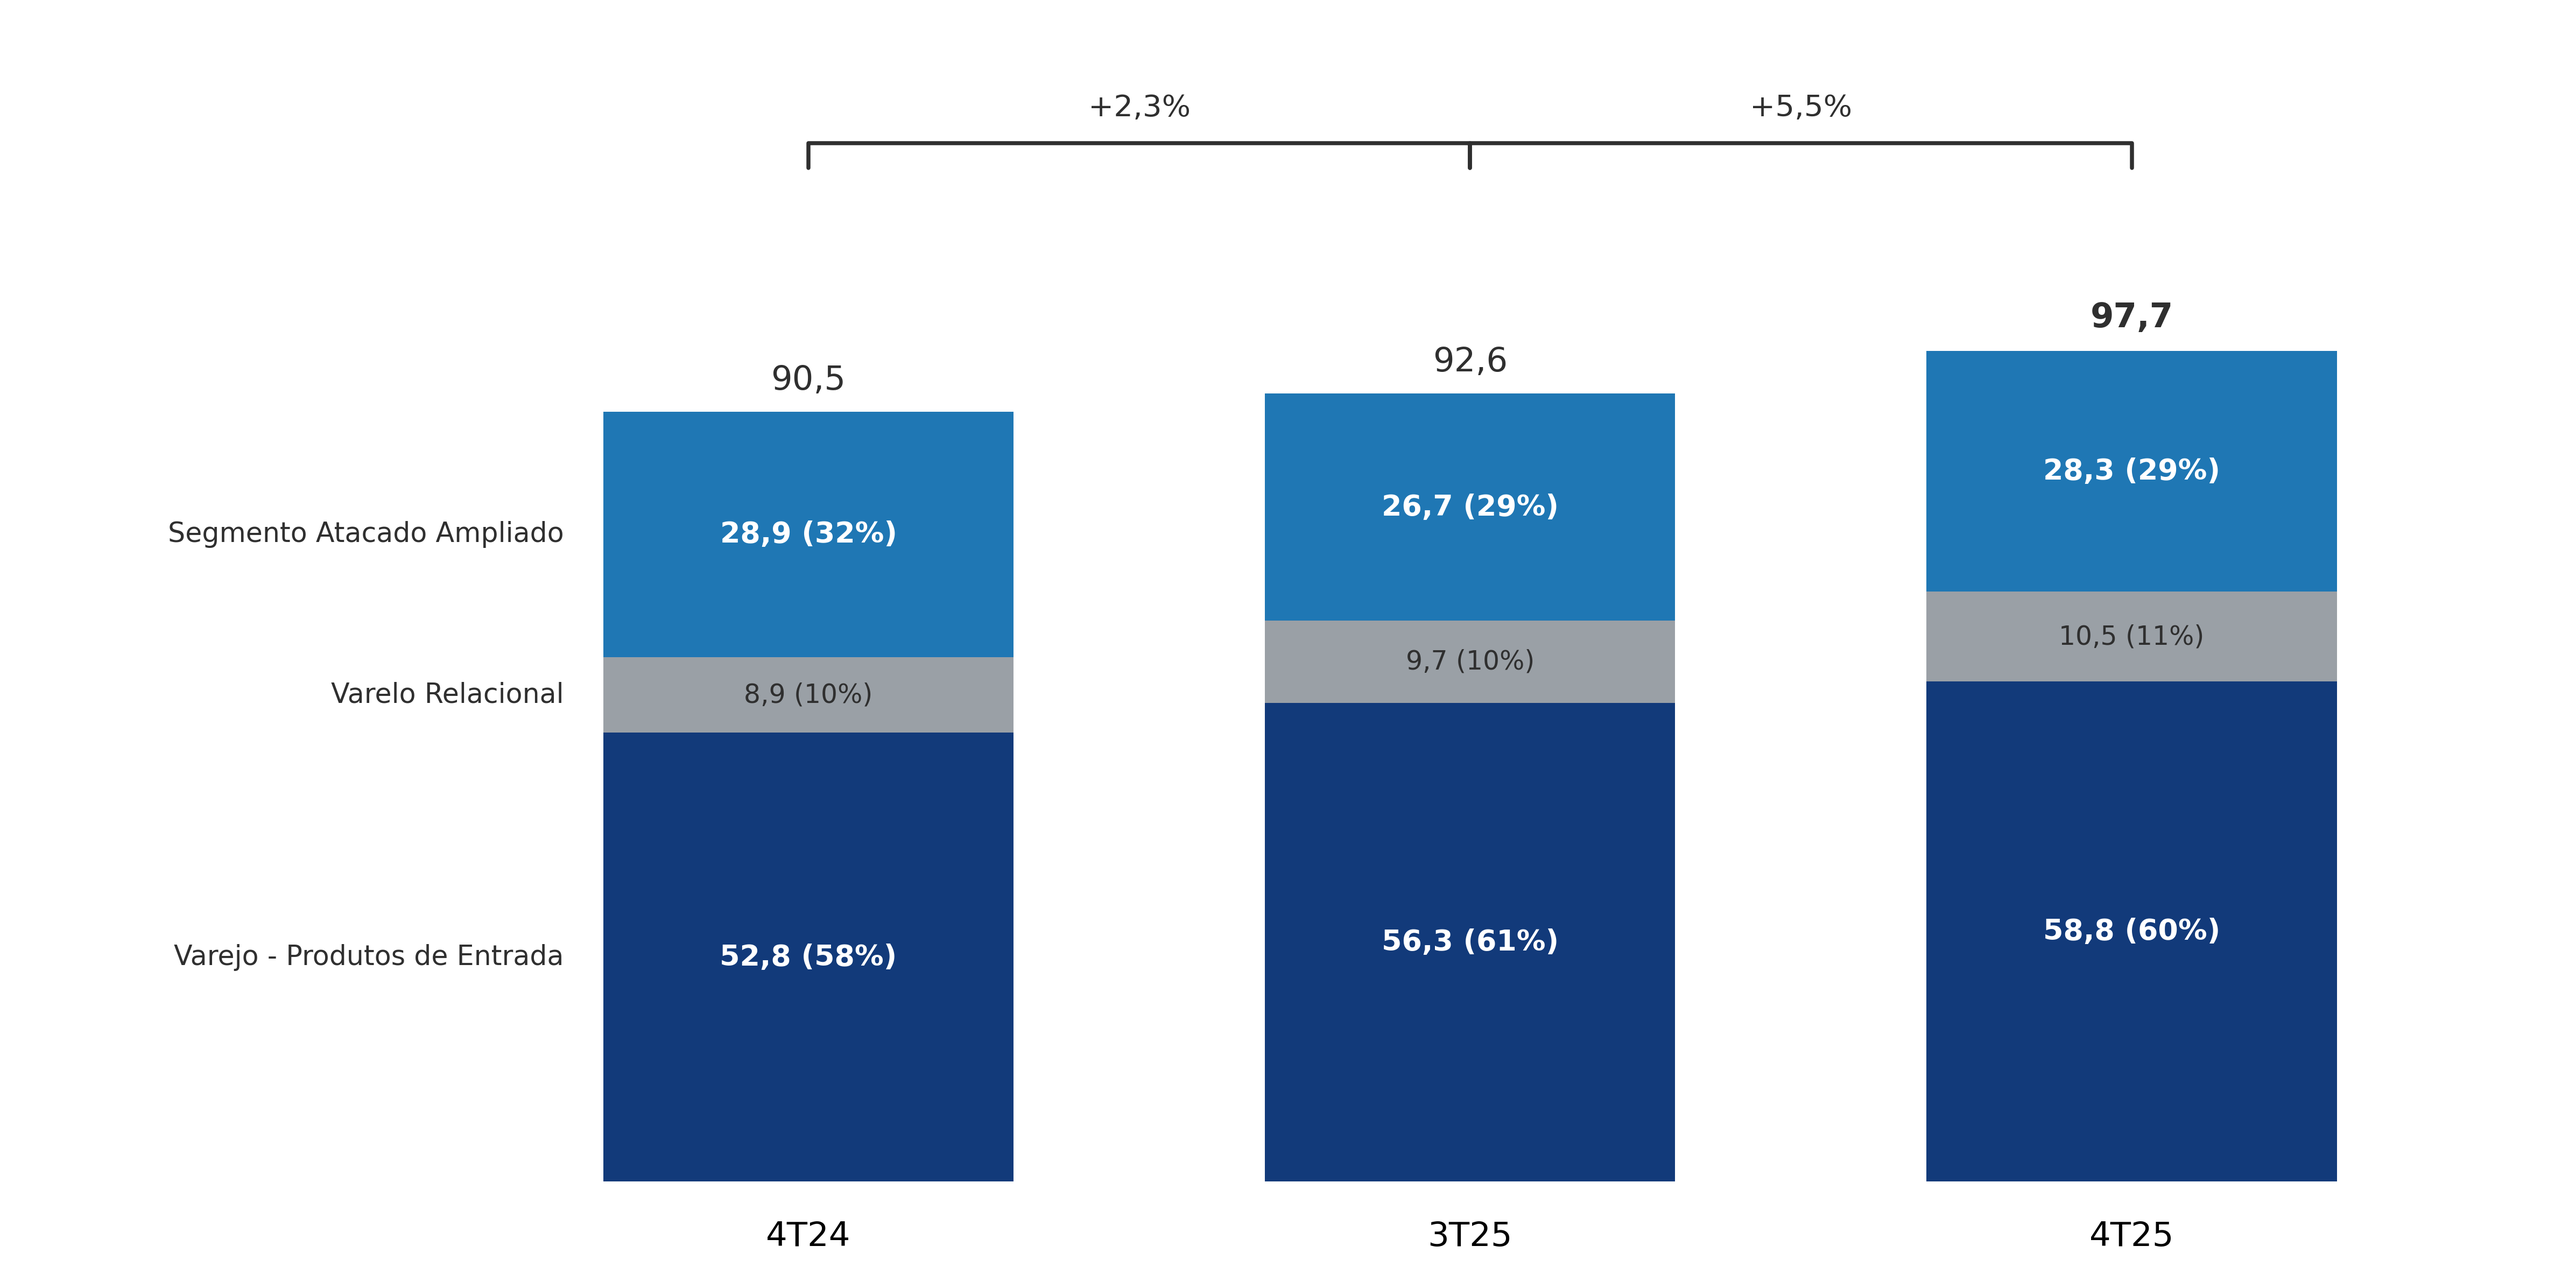
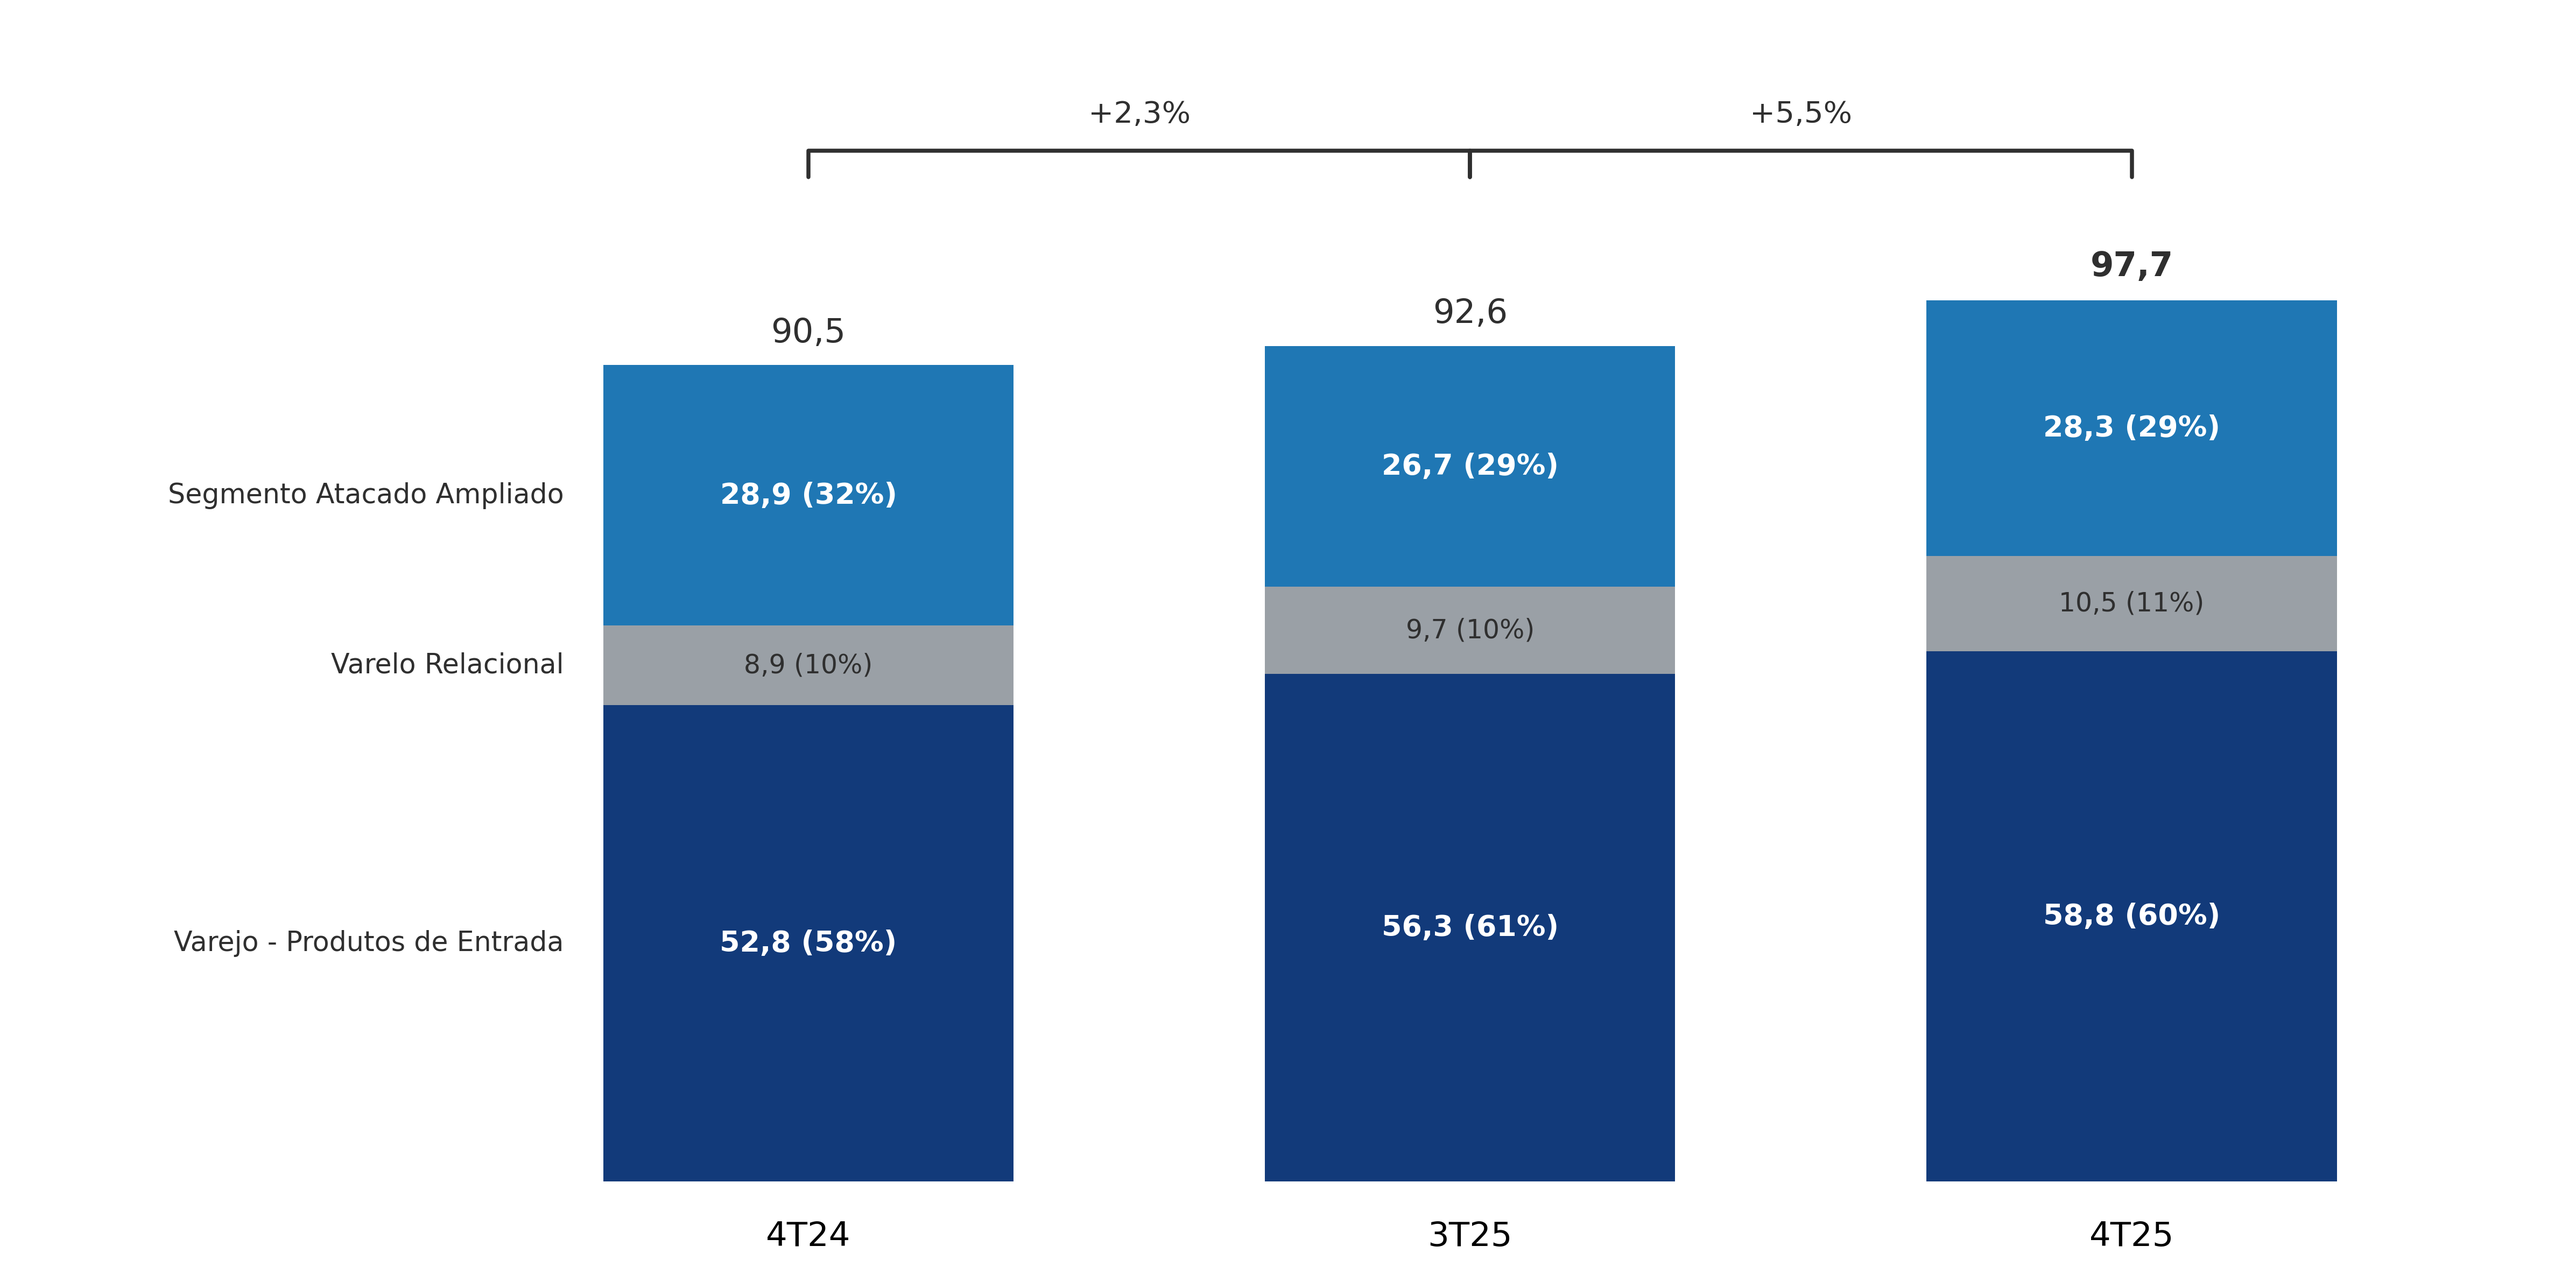
adjusted brackets on slide 12

diff --git a/tests/test_slide12_charts.py b/tests/test_slide12_charts.py
@@ -30,11 +30,21 @@ class TestSlide12Charts(unittest.TestCase):
 
         captured: dict[str, object] = {}
 
-        def _capture_plot(*, xlabels, series_names, values, output_path):
+        def _capture_plot(
+            *,
+            xlabels,
+            series_names,
+            values,
+            output_path,
+            bracket_top_gap_scale=0.20,
+            bracket_top_gap_min=1.4,
+        ):
             captured["xlabels"] = list(xlabels)
             captured["series_names"] = list(series_names)
             captured["values"] = values.tolist()
             captured["output_name"] = Path(output_path).name
+            captured["bracket_top_gap_scale"] = bracket_top_gap_scale
+            captured["bracket_top_gap_min"] = bracket_top_gap_min
 
         with tempfile.TemporaryDirectory() as td:
             xlsx_path = Path(td) / "test.xlsx"
@@ -59,6 +69,8 @@ class TestSlide12Charts(unittest.TestCase):
                 [0.012, 0.022, 0.032],
             ],
         )
+        self.assertEqual(captured["bracket_top_gap_scale"], 0.12)
+        self.assertEqual(captured["bracket_top_gap_min"], 0.9)
 
 
 if __name__ == "__main__":

diff --git a/utils/slide12_charts.py b/utils/slide12_charts.py
@@ -47,6 +47,8 @@ def _plot_slide12_stacked(
     series_names: list[str],
     values: np.ndarray,  # [n_bars, n_series]
     output_path: Path,
+    bracket_top_gap_scale: float = 0.20,
+    bracket_top_gap_min: float = 1.4,
 ) -> None:
     import matplotlib.pyplot as plt
     from matplotlib.colors import to_rgba
@@ -158,7 +160,10 @@ def _plot_slide12_stacked(
     offset_y = max(abs_max * 0.10, 0.8)
     bracket_h = max(abs_max * 0.03, 0.6)
     top_labels_max = max(total_label_tops) if total_label_tops else float(np.nanmax(totals))
-    top_base = float(top_labels_max) + max(abs_max * 0.20, 1.4)
+    top_base = float(top_labels_max) + max(
+        abs_max * float(bracket_top_gap_scale),
+        float(bracket_top_gap_min),
+    )
     max_text_y: float | None = None
 
     for i in range(1, n):
@@ -263,6 +268,8 @@ def generate_slide12_charts(*, xlsx_path: Path, output_dir: Path) -> list[Path]:
         series_names=series_names,
         values=values,
         output_path=out25,
+        bracket_top_gap_scale=0.12,
+        bracket_top_gap_min=0.9,
     )
     return [out25]
 
